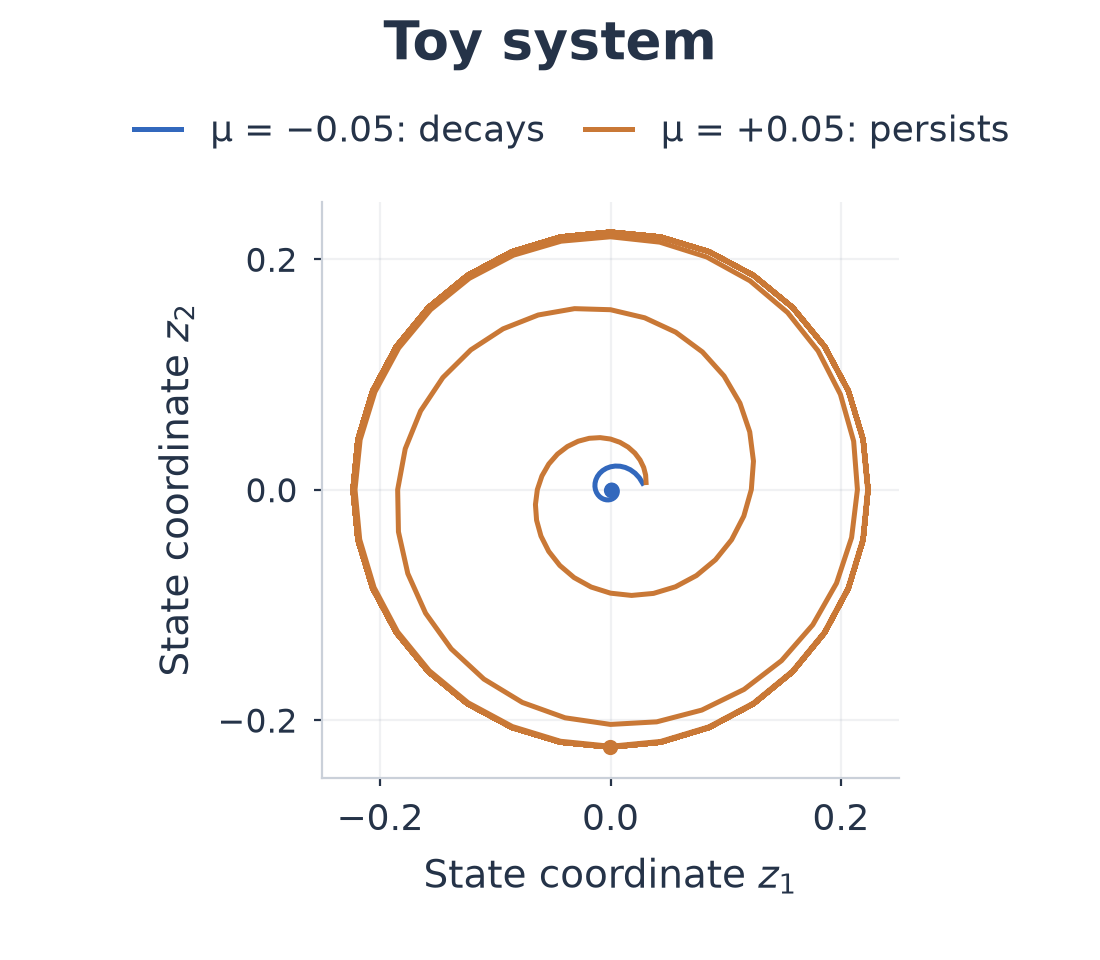
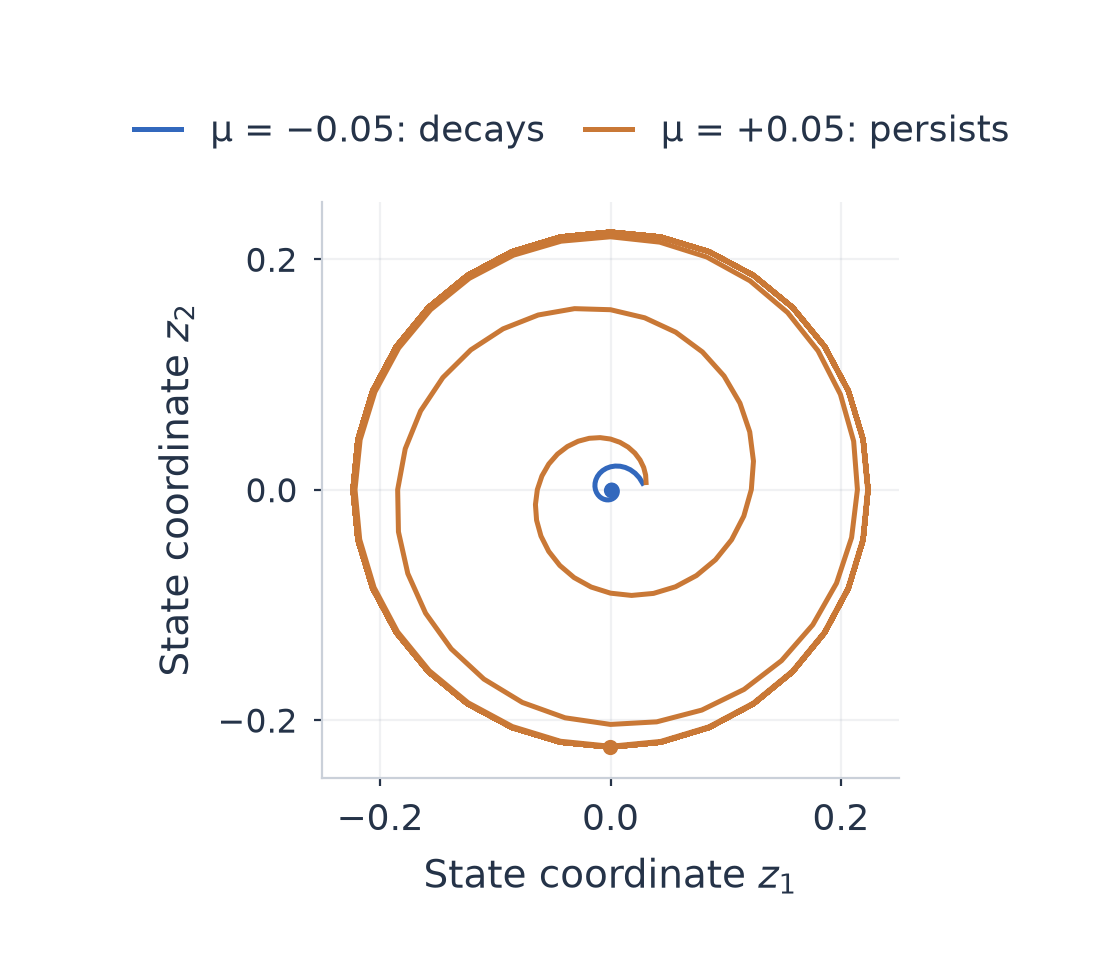
Remove title from first PANDA figure

Changed region(s): [[0.34, 0.0, 0.6491, 0.0938]]

diff --git a/assets/panda-steering/generate_figures.py b/assets/panda-steering/generate_figures.py
@@ -95,7 +95,6 @@ def toy_panel(data, directory):
     ax.set_ylabel("State coordinate $z_2$", labelpad=7)
     style_axis(ax)
     ax.grid(alpha=.12, color=MUTED)
-    fig.suptitle("Toy system", y=.98, fontsize=19, color=INK, fontweight="bold")
     handles, labels = ax.get_legend_handles_labels()
     fig.legend(handles, labels, loc="upper center", bbox_to_anchor=(.52, .915),
                ncol=2, frameon=False, fontsize=13, columnspacing=1.1, handlelength=1.3)

diff --git a/assets/panda-steering/README.md b/assets/panda-steering/README.md
@@ -13,7 +13,7 @@ fit a model, or create new experimental outcomes.
 Each panel also has a vector PDF. The article pairs the two control panels as
 one figure; their axes use the same no-edit normalization and logarithmic range.
 
-The November 10, 2026 revision shortens the toy title and removes narrative
+The November 10, 2026 revision removes the toy title and narrative
 annotations from the control panels. The saved data and plotted values are unchanged.
 
 ## Regenerate
